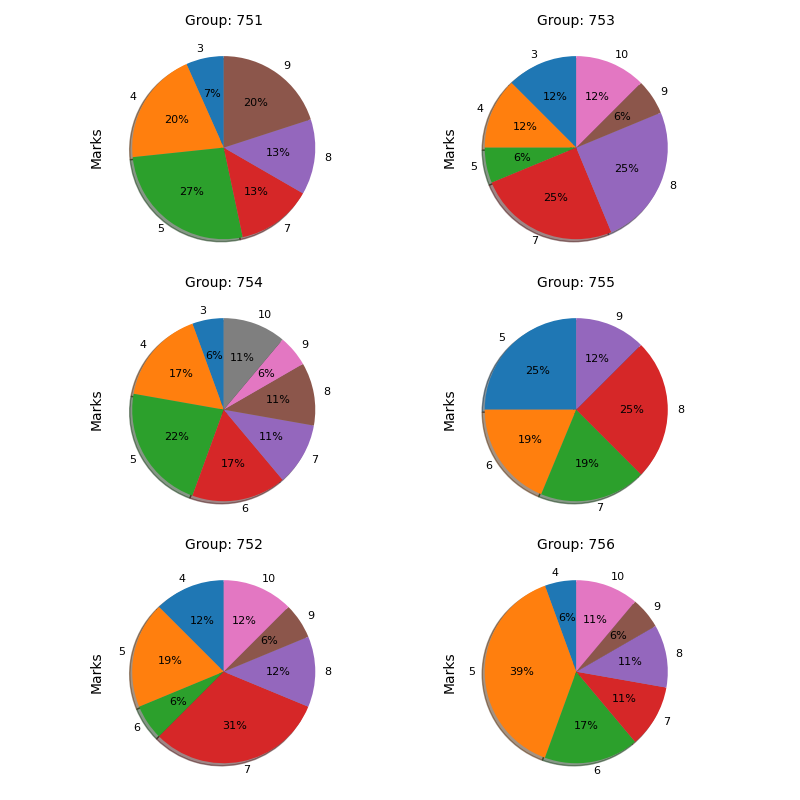
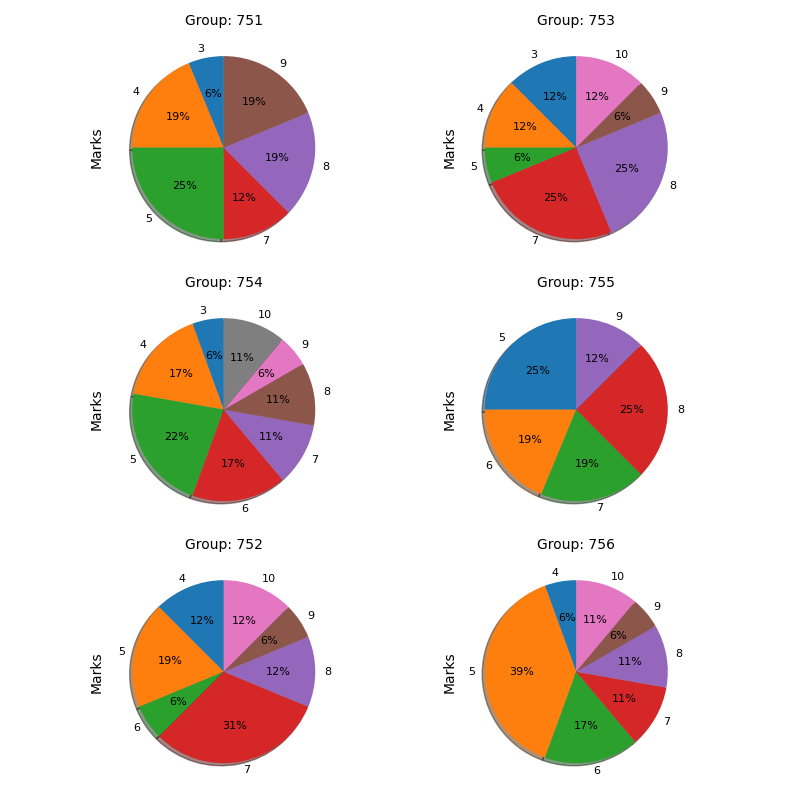
full feng shui

diff --git a/Lab_1_MatplotLib/Episode2/Episode2.py b/Lab_1_MatplotLib/Episode2/Episode2.py
@@ -1,12 +1,10 @@
 import numpy as np
 import matplotlib.pyplot as plt
 from matplotlib.animation import FuncAnimation
-import os
 x = []
 y = []
 
 with open('frames.dat', 'r') as file:
-    print(enumerate(file))
     for ind, lines in enumerate(file):
         if not ind % 2:
             x.append([float(i) for i in lines.split()])
@@ -14,11 +12,15 @@ with open('frames.dat', 'r') as file:
             y.append([float(i) for i in lines.split()])
 
 fig = plt.figure()
-ax = plt.axes(xlim=(min([min(i) for i in x]), max([max(i) for i in x])),
-              ylim=(min([min(i) for i in y]) * 1.2, max([max(i) for i in y]) * 1.2))
+
+x_lim = [min([min(i) for i in x]), max([max(i) for i in x])]
+y_lim = [min([min(i) for i in y]), max([max(i) for i in y])]
+
+ax = plt.axes(xlim=(x_lim[0], x_lim[1]),
+              ylim=(y_lim[0] * 1.2, y_lim[1] * 1.2))
 line, = ax.plot([], [])
 plt.grid()
-plt.yticks(np.arange(min([min(i) for i in y]) * 1.2, max([max(i) for i in y]) * 1.2, 2))
+plt.yticks(np.arange(y_lim[0] * 1.2, y_lim[1] * 1.2, 2))
 
 
 def init():
@@ -35,4 +37,4 @@ def animate(i):
 anim = FuncAnimation(fig, animate, init_func=init,
                      frames=6, interval=500, blit=True)
 
-anim.save(os.path.join('Episode2', 'graphics.gif'), writer='pillow')
+anim.save('graphics.gif', writer='pillow')

diff --git a/Lab_1_MatplotLib/Episode3/Episode3_2nd_plot.py b/Lab_1_MatplotLib/Episode3/Episode3_2nd_plot.py
@@ -3,13 +3,13 @@ import matplotlib.pyplot as plt
 
 fig1, axes = plt.subplots(nrows = 3, ncols = 2)
 
-data = pd.read_csv('students.csv', sep='[;,|_]', engine='python')
+data = pd.read_csv('students.csv', sep='[;,|_]', engine='python', header=None)
 
 data.columns = ['Preps', 'Groups', 'Marks']
 
 j, k = 0, 0
 for i in data['Groups'].unique():
-    new_data = data.loc[data.Groups.isin([i])]['Marks'].value_counts().sort_index().to_frame()
+    new_data = data.loc[data.Groups.isin([i]), 'Marks'].value_counts().sort_index()
     title = "Group: " + str(i)
     new_data.plot.pie(y='Marks', figsize=(8, 8), ax=axes[j, k], autopct='%1.0f%%',
                       shadow=True, startangle=90, legend=False, fontsize=8, title=title)

diff --git a/Lab_1_MatplotLib/Episode3/Episode3.py b/Lab_1_MatplotLib/Episode3/Episode3.py
@@ -9,7 +9,7 @@ data.columns = ['Preps', 'Groups', 'Marks']
 
 j, k = 0, 0
 for i in data['Preps'].unique():
-    new_data = data.loc[data['Preps'] == i]['Marks'].value_counts().sort_index()
+    new_data = data.loc[data['Preps'] == i, 'Marks'].value_counts().sort_index()
     new_data.plot.pie(y='Marks', figsize=(8, 8), ax=axes[j, k], autopct='%1.0f%%', shadow=True,
                       startangle=90, legend=False, fontsize=8, title=i)
     axes[j, k].title.set_size(10)

diff --git a/Lab_1_MatplotLib/Episode1/Episode1.py b/Lab_1_MatplotLib/Episode1/Episode1.py
@@ -5,7 +5,6 @@ for i in range(1, 6):
         x = b[1:2 * int(b[0]):2]
         y = b[2:2 * int(b[0]) + 1:2]
         if len(x) > 100:
-            print(x)
             plot = plt.scatter(x, y, marker='.', s=3)
         else:
             plot = plt.scatter(x, y, marker='.', s=10)
